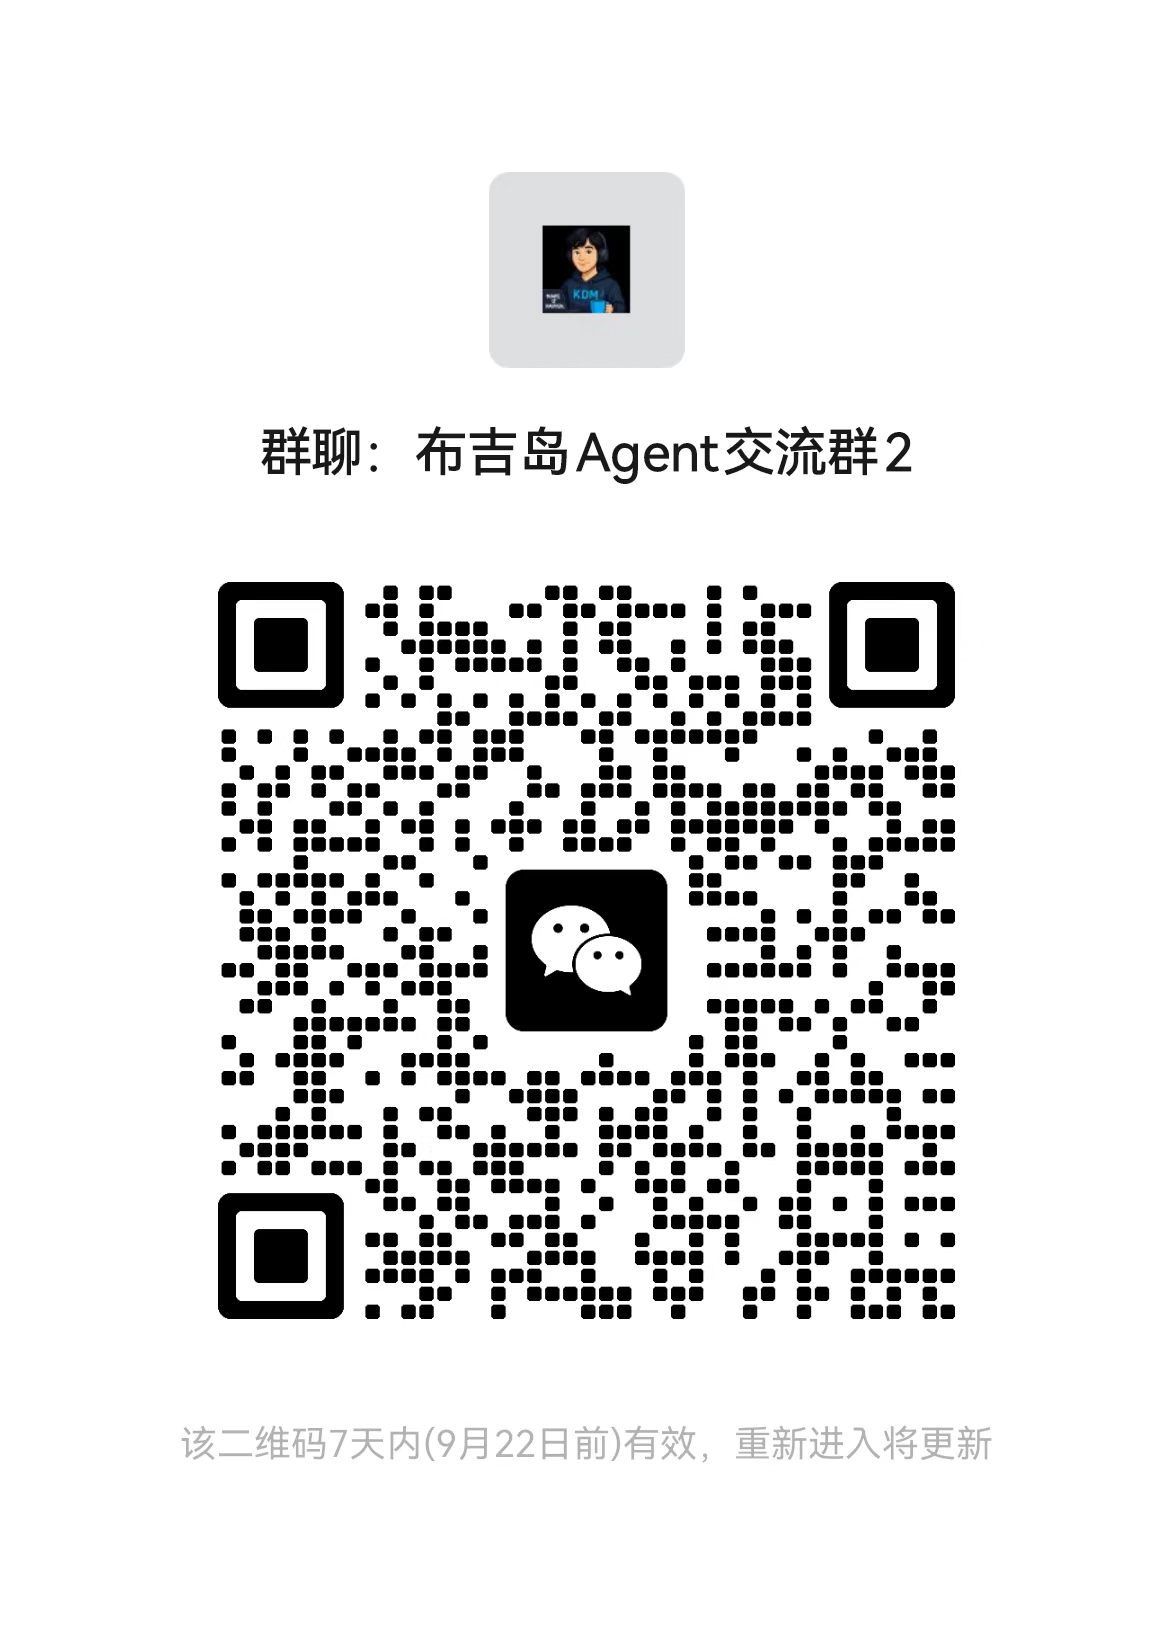
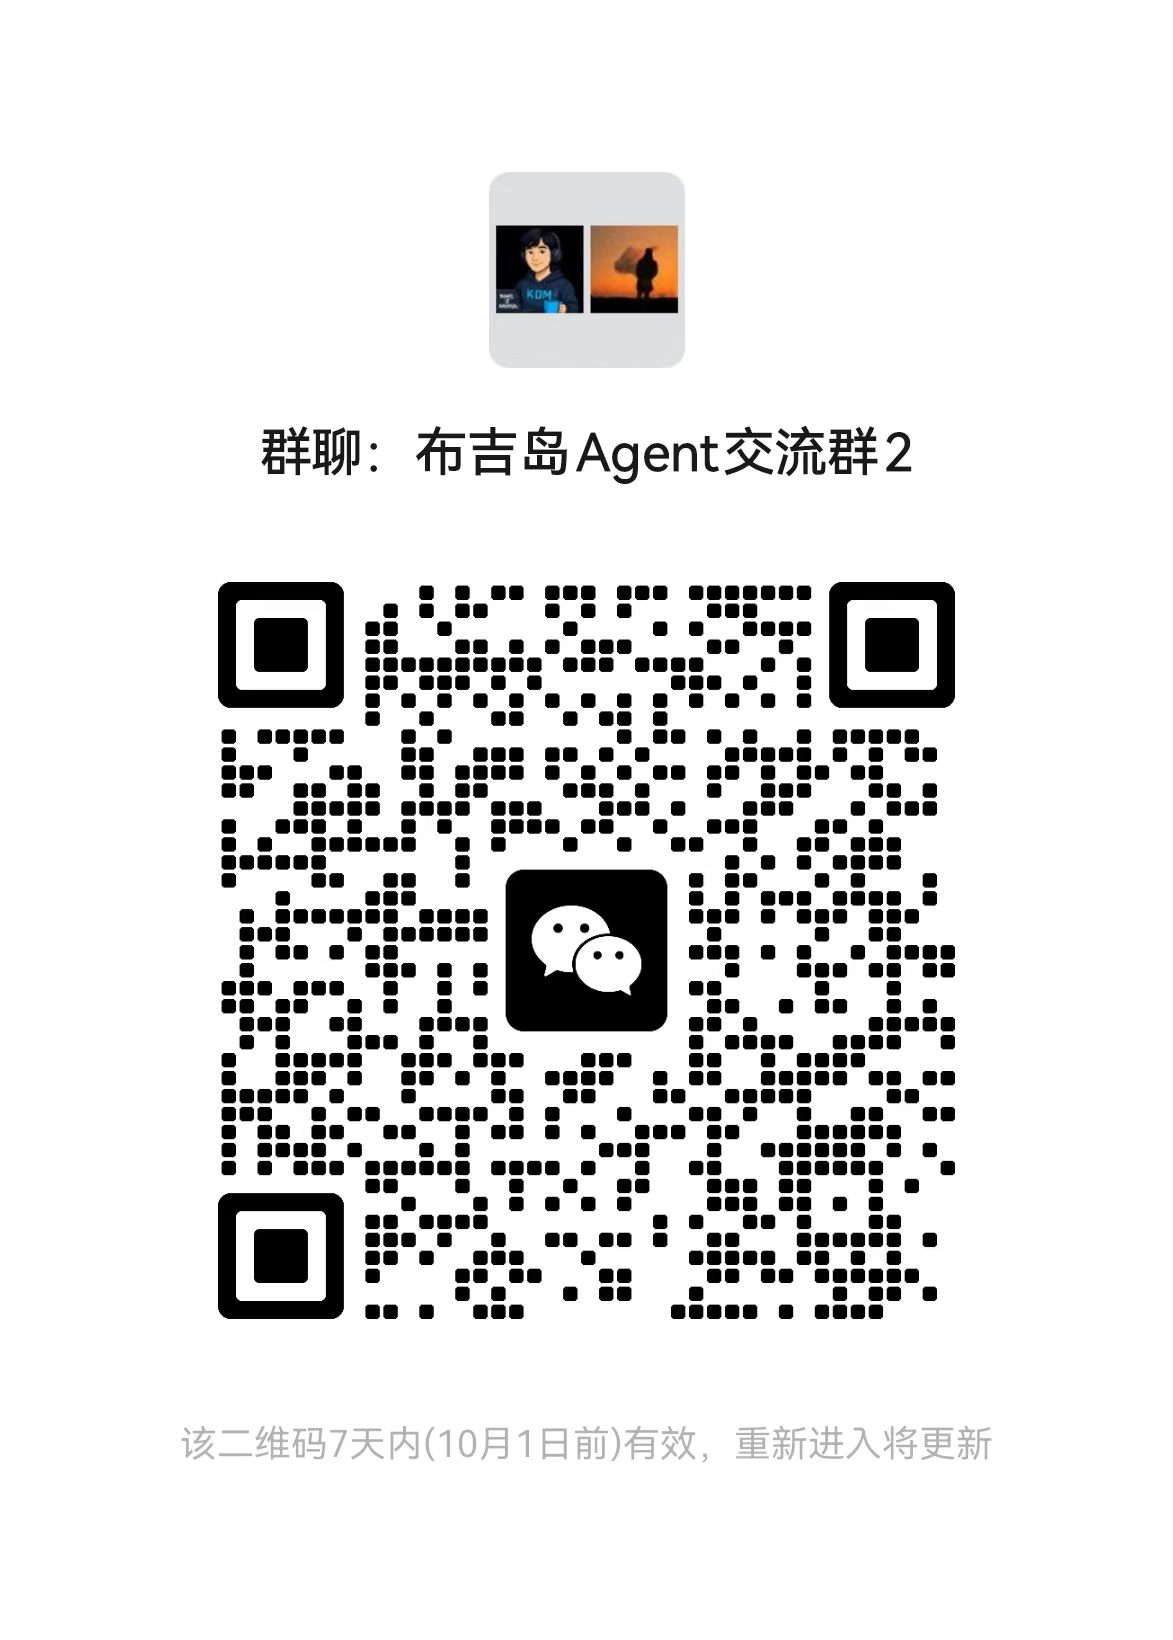
feat: add knowledge planet promotion and refresh group QR

Changed region(s): [[0.1841, 0.3421, 0.8286, 0.8085], [0.399, 0.1244, 0.5831, 0.2177], [0.3683, 0.8707, 0.4604, 0.9018]]

diff --git a/docs/.vitepress/theme/components/PlanetMembership.vue b/docs/.vitepress/theme/components/PlanetMembership.vue
@@ -1,0 +1,282 @@
+<script setup lang="ts">
+import { onBeforeUnmount, onMounted, ref } from 'vue'
+
+const isCouponOpen = ref(false)
+
+function closeCoupon() {
+  isCouponOpen.value = false
+}
+
+function onKeydown(event: KeyboardEvent) {
+  if (event.key === 'Escape') closeCoupon()
+}
+
+onMounted(() => window.addEventListener('keydown', onKeydown))
+onBeforeUnmount(() => window.removeEventListener('keydown', onKeydown))
+</script>
+
+<template>
+  <section id="planet" class="home-section planet-membership" aria-labelledby="planet-title">
+    <div class="planet-card">
+      <div class="planet-copy">
+        <span class="planet-eyebrow">解锁更多资源</span>
+        <h2 id="planet-title">加入布吉岛 Agent 知识星球</h2>
+        <p>
+          知识星球是 <strong>aiagentguide.cn 的配套学习资料库</strong>。
+        </p>
+        <p>
+          网站上的教程和部分项目仍然会持续免费开放，星球则主要提供更加完整、详细的
+          <strong>架构图、流程图、时序图和可编辑源文件（当前重点）</strong>。这些内容并不是网站图片的简单搬运，而是围绕教程进一步整理和拆解，帮助你在学完之后快速梳理知识结构、辅助记忆，并能够根据图把核心原理完整讲出来。
+        </p>
+        <p>
+          后续还会逐步加入 <strong>星球专属项目、深度文章、面试题以及更多学习资料</strong>。
+        </p>
+        <p>
+          目前网站和星球都还处于起步阶段，因此价格设置得比较低；随着内容不断丰富，后续价格也会逐步调整。
+        </p>
+        <p>
+          <strong>当然，不加入星球也完全可以学习，星球只是为希望学得更系统、更省时间的同学提供额外内容。</strong>
+        </p>
+      </div>
+
+      <button
+        class="planet-coupon-link"
+        type="button"
+        aria-label="放大查看布吉岛 Agent 知识星球优惠券"
+        aria-haspopup="dialog"
+        @click="isCouponOpen = true"
+      >
+        <img
+          src="/assets/community/planet-coupon.png"
+          alt="布吉岛 Agent 知识星球优惠券：立减 50 元，扫码领取，优惠券有效至 2026 年 11 月 30 日 12:00"
+          width="640"
+          height="778"
+          loading="lazy"
+        />
+        <span>点击查看优惠券大图</span>
+      </button>
+    </div>
+
+    <Teleport to="body">
+      <div
+        v-if="isCouponOpen"
+        class="planet-coupon-modal"
+        role="dialog"
+        aria-modal="true"
+        aria-labelledby="planet-coupon-modal-title"
+        @click.self="closeCoupon"
+      >
+        <div class="planet-coupon-modal-panel">
+          <button
+            class="planet-coupon-modal-close"
+            type="button"
+            aria-label="关闭优惠券预览"
+            @click="closeCoupon"
+          >
+            ×
+          </button>
+          <h2 id="planet-coupon-modal-title">布吉岛 Agent 知识星球优惠券</h2>
+          <img
+            src="/assets/community/planet-coupon.png"
+            alt="布吉岛 Agent 知识星球优惠券：立减 50 元，扫码领取，优惠券有效至 2026 年 11 月 30 日 12:00"
+            width="640"
+            height="778"
+          />
+        </div>
+      </div>
+    </Teleport>
+  </section>
+</template>
+
+<style scoped>
+.planet-membership {
+  padding: 24px 24px 72px;
+}
+
+.planet-card {
+  display: grid;
+  grid-template-columns: minmax(0, 1fr) 240px;
+  align-items: center;
+  gap: 56px;
+  max-width: 960px;
+  margin: 0 auto;
+  padding: 36px 48px;
+  border: 1px solid var(--home-panel-border);
+  border-radius: 28px;
+  background: var(--home-panel-bg);
+  box-shadow: var(--home-panel-shadow);
+}
+
+.planet-copy {
+  max-width: 560px;
+}
+
+.planet-eyebrow {
+  color: var(--home-accent);
+  font-size: 0.9rem;
+  font-weight: 700;
+}
+
+.planet-copy h2 {
+  margin: 12px 0 16px;
+  color: var(--home-title);
+  font-size: 28px;
+}
+
+.planet-copy p {
+  margin: 0;
+  color: var(--home-body);
+  line-height: 1.8;
+}
+
+.planet-copy p + p {
+  margin-top: 12px;
+}
+
+.planet-offer {
+  margin-top: 20px !important;
+}
+
+.planet-offer strong {
+  color: var(--home-accent);
+  font-size: 1.15em;
+}
+
+.planet-scan-tip {
+  margin-top: 12px !important;
+  color: var(--vp-c-text-3) !important;
+  font-size: 0.9rem;
+}
+
+.planet-coupon-link {
+  display: block;
+  width: 100%;
+  padding: 8px;
+  border: 1px solid var(--home-panel-border);
+  border-radius: 16px;
+  background: #fff;
+  color: var(--vp-c-text-2);
+  text-align: center;
+  font: inherit;
+  cursor: zoom-in;
+  box-shadow: 0 8px 24px rgba(15, 23, 42, 0.08);
+  transition: transform 0.2s ease, box-shadow 0.2s ease;
+}
+
+.planet-coupon-link:hover {
+  transform: translateY(-3px);
+  box-shadow: 0 12px 30px rgba(15, 23, 42, 0.14);
+}
+
+.planet-coupon-link:focus-visible {
+  outline: 2px solid var(--vp-c-brand-1);
+  outline-offset: 3px;
+}
+
+.planet-coupon-link img {
+  display: block;
+  width: 100%;
+  height: auto;
+  border-radius: 10px;
+}
+
+.planet-coupon-link span {
+  display: block;
+  padding: 9px 4px 3px;
+  font-size: 0.82rem;
+}
+
+.planet-coupon-modal {
+  position: fixed;
+  inset: 0;
+  z-index: 100;
+  display: grid;
+  place-items: center;
+  padding: 24px;
+  background: rgba(15, 23, 42, 0.72);
+  backdrop-filter: blur(6px);
+}
+
+.planet-coupon-modal-panel {
+  position: relative;
+  display: flex;
+  max-width: min(640px, 100%);
+  max-height: 100%;
+  padding: 24px;
+  flex-direction: column;
+  align-items: center;
+  border: 1px solid var(--vp-c-divider);
+  border-radius: 20px;
+  background: var(--vp-c-bg);
+  box-shadow: 0 24px 80px rgba(15, 23, 42, 0.3);
+}
+
+.planet-coupon-modal-panel h2 {
+  margin: 0 32px 16px;
+  color: var(--vp-c-text-1);
+  font-size: 1.15rem;
+  text-align: center;
+}
+
+.planet-coupon-modal-panel img {
+  display: block;
+  max-width: 100%;
+  max-height: calc(100vh - 140px);
+  width: auto;
+  height: auto;
+  border-radius: 10px;
+  object-fit: contain;
+}
+
+.planet-coupon-modal-close {
+  position: absolute;
+  top: 8px;
+  right: 12px;
+  display: grid;
+  width: 36px;
+  height: 36px;
+  place-items: center;
+  border: 0;
+  border-radius: 50%;
+  color: var(--vp-c-text-2);
+  background: var(--vp-c-bg-soft);
+  cursor: pointer;
+  font-size: 24px;
+  line-height: 1;
+}
+
+.planet-coupon-modal-close:hover {
+  color: var(--vp-c-text-1);
+  background: var(--vp-c-bg-mute);
+}
+
+@media (max-width: 768px) {
+  .planet-membership {
+    padding: 0 16px 52px;
+  }
+
+  .planet-card {
+    grid-template-columns: 1fr;
+    gap: 24px;
+    padding: 32px 24px;
+    text-align: center;
+  }
+
+  .planet-copy h2 {
+    font-size: 24px;
+  }
+
+  .planet-coupon-link {
+    width: min(240px, 100%);
+    margin: 0 auto;
+  }
+
+  .planet-coupon-modal-panel {
+    padding: 16px;
+  }
+
+  .planet-coupon-modal-panel img {
+    max-height: calc(100vh - 112px);
+  }
+}
+</style>

diff --git a/docs/.vitepress/theme/index.ts b/docs/.vitepress/theme/index.ts
@@ -5,6 +5,7 @@ import HomeDemo from './components/HomeDemo.vue'
 import HomeAboutSite from './components/HomeAboutSite.vue'
 import HomeFaq from './components/HomeFaq.vue'
 import CommunityGroup from './components/CommunityGroup.vue'
+import PlanetMembership from './components/PlanetMembership.vue'
 import ToolAutoPreview from './components/ToolAutoPreview.vue'
 import ToolsDirectory from './components/ToolsDirectory.vue'
 import AgentLoopVisualizer from './components/AgentLoopVisualizer.vue'
@@ -35,6 +36,7 @@ export default {
     app.component('HomeAboutSite', HomeAboutSite)
     app.component('HomeFaq', HomeFaq)
     app.component('CommunityGroup', CommunityGroup)
+    app.component('PlanetMembership', PlanetMembership)
     app.component('ToolAutoPreview', ToolAutoPreview)
     app.component('ToolsDirectory', ToolsDirectory)
     app.component('AgentLoopVisualizer', AgentLoopVisualizer)

diff --git a/docs/index.md b/docs/index.md
@@ -47,6 +47,8 @@ aside: false
 
 <CommunityGroup />
 
+<PlanetMembership />
+
 <HomeJourney />
 
 <HomeFaq />
